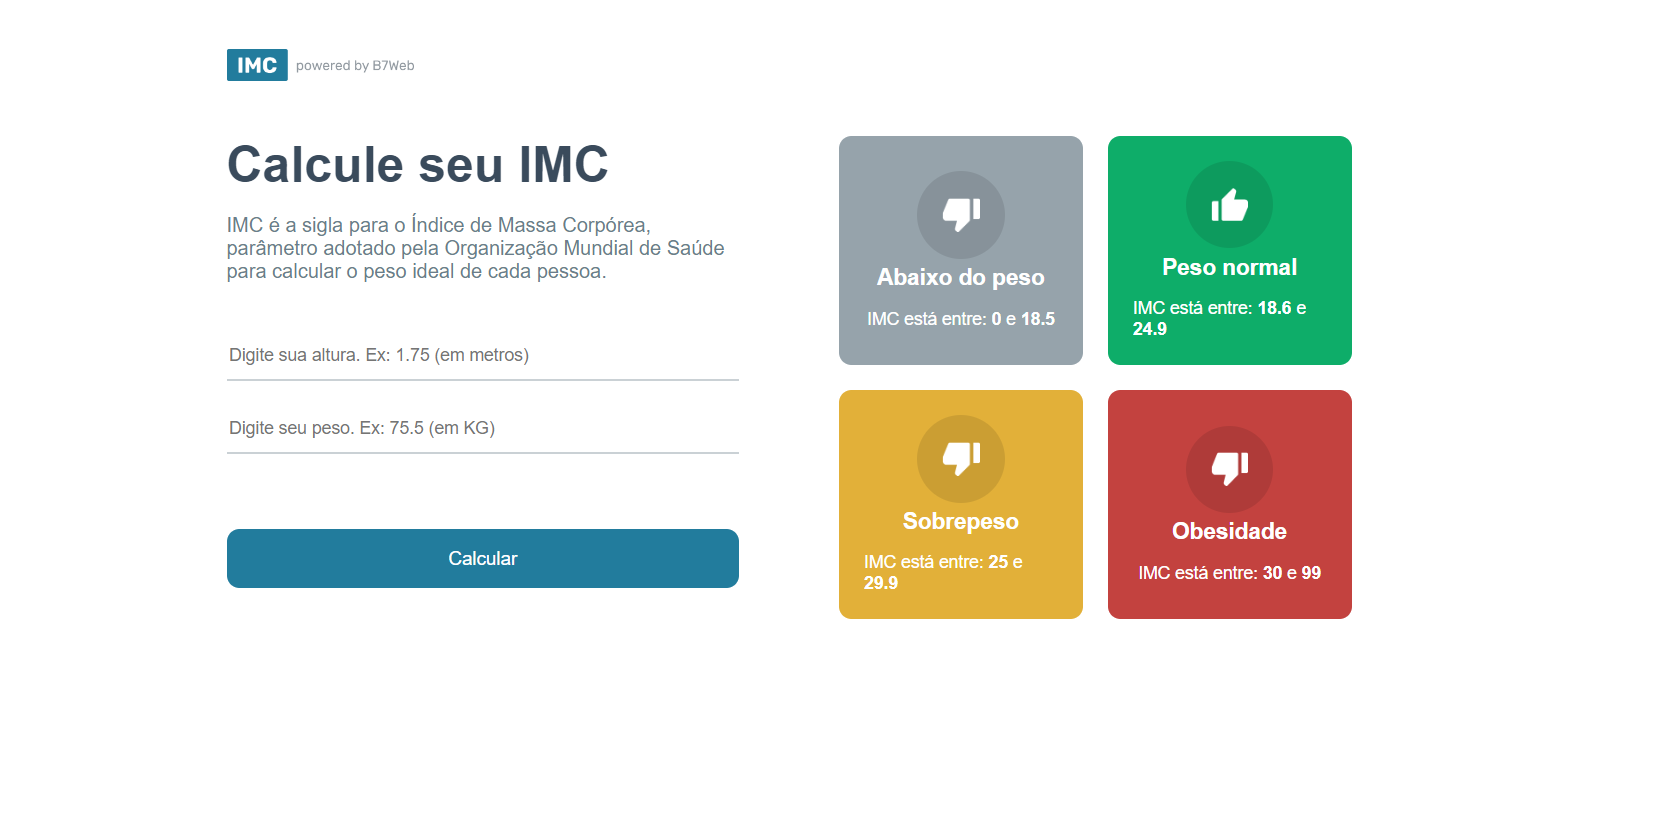
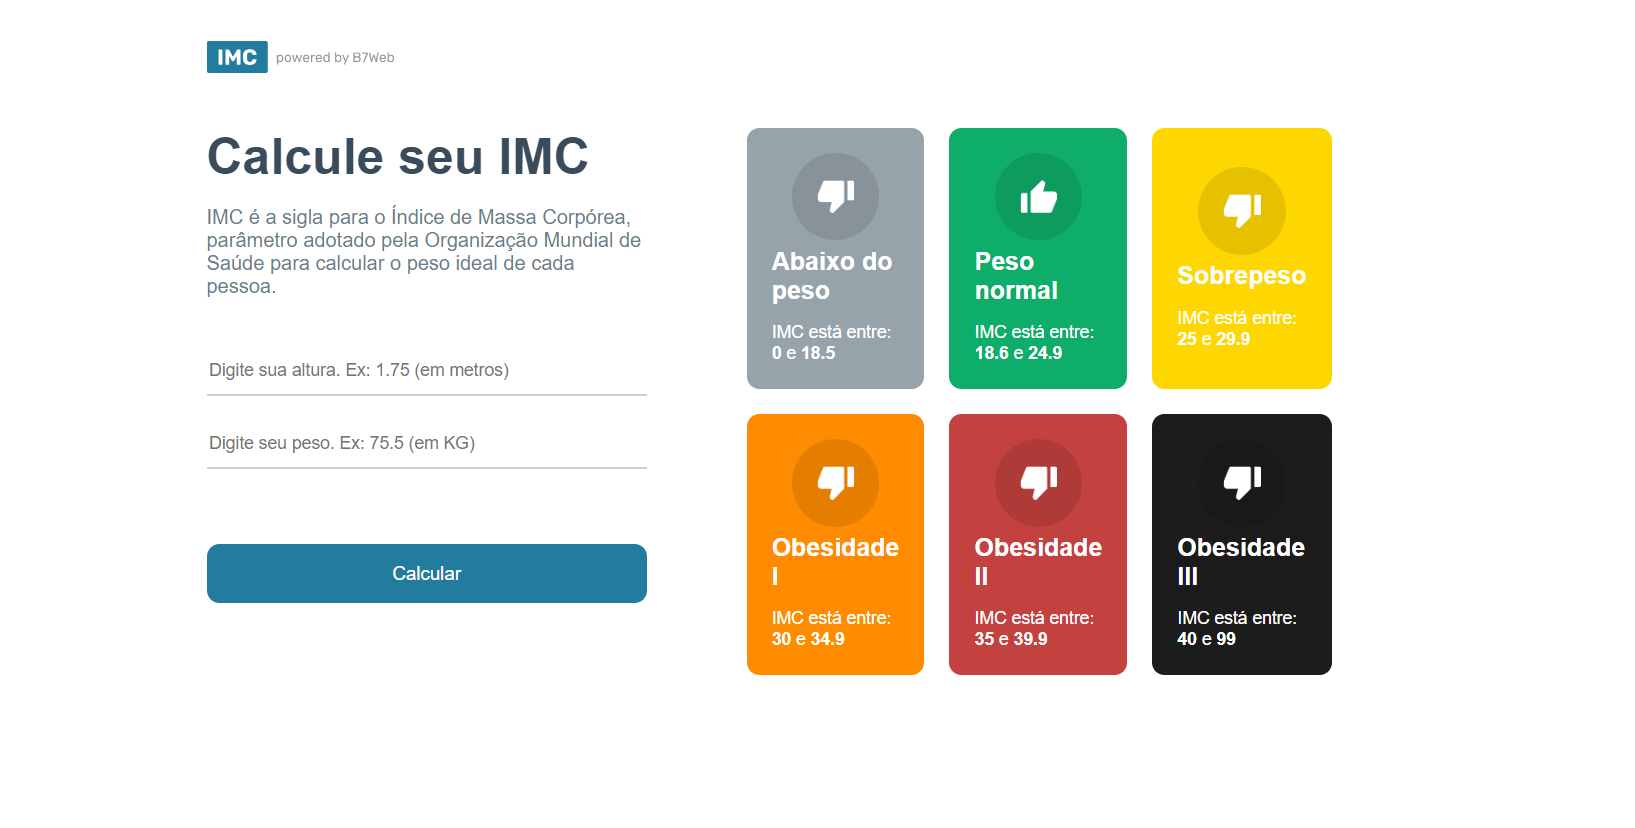
Adicinando os niveis de obesidade

Changed region(s): [[0.1248, 0.151, 0.8422, 0.8152], [0.1248, 0.3925, 0.3743, 0.5435], [0.1248, 0.0302, 0.2495, 0.1208]]

diff --git a/src/helpers/imc.ts b/src/helpers/imc.ts
@@ -3,8 +3,10 @@ import { Level } from "../type/level";
 export const levels: Level[] = [
     { title: 'Abaixo do peso', color: '#96A3AB', icon: 'down', imc: [0, 18.5] },
     { title: 'Peso normal', color: '#0EAD69', icon: 'up', imc: [18.6, 24.9] },
-    { title: 'Sobrepeso', color: '#E2B039', icon: 'down', imc: [25, 29.9] },
-    { title: 'Obesidade', color: '#C3423F', icon: 'down', imc: [30, 99] },
+    { title: 'Sobrepeso', color: '#FFD700', icon: 'down', imc: [25, 29.9] },
+    { title: 'Obesidade I', color: '#FF8C00', icon: 'down', imc: [30, 34.9] },
+    { title: 'Obesidade II', color: '#C3423F', icon: 'down', imc: [35, 39.9] },
+    { title: 'Obesidade III', color: '#1C1C1C', icon: 'down', imc: [40, 99] },
 ];
 
 export const calculateIMC = (height: number, weight: number) => {
@@ -21,3 +23,11 @@ export const calculateIMC = (height: number, weight: number) => {
 
     return null;
 }
+
+// FFFF00
+// FF8C00
+// 1C1C1C	
+
+// #E2B039
+// C3423F
+// C3423F

diff --git a/src/App.module.css b/src/App.module.css
@@ -79,7 +79,7 @@ body {
 .container .rigthSider .grid {
     flex: 1;
     display: grid;
-    grid-template-columns: repeat(2, 1fr);
+    grid-template-columns: repeat(3, 1fr);
     gap: 20px;
 }
 

diff --git a/src/components/GridItem/GridItem.module.css b/src/components/GridItem/GridItem.module.css
@@ -20,7 +20,7 @@
 }
 
 .gridtitle {
-    font-size: 18px;
+    font-size: 20px;
     font-weight: bold;
     margin-top: 5px;
 }
